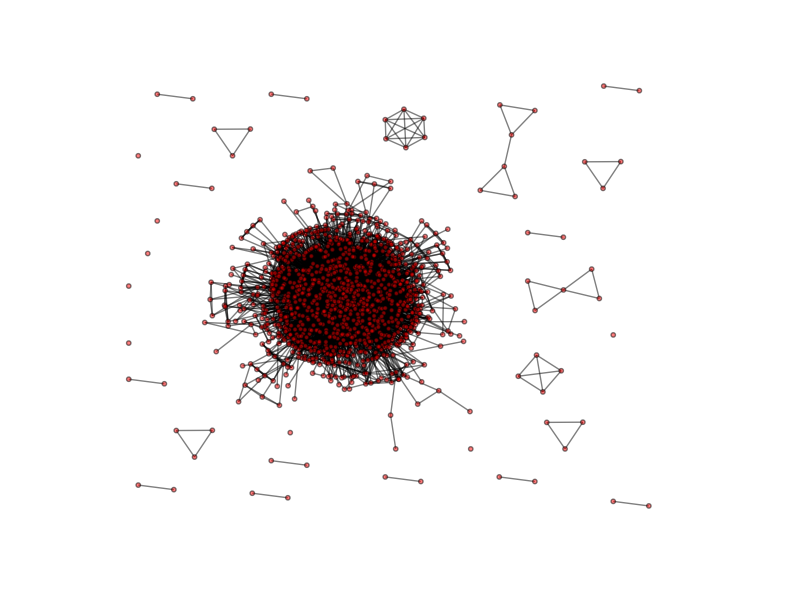
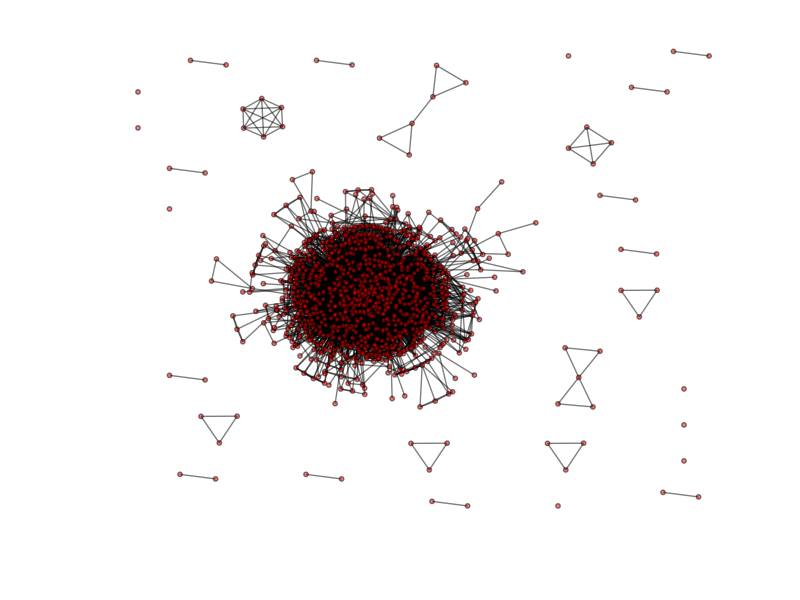
remove high throughput papers

diff --git a/get_references.py b/get_references.py
@@ -8,10 +8,9 @@ import os
 import sys
 
 # Graphic stuff
-import networkx as nx
 import matplotlib.pyplot as plt
 
-ez.email = "i.friedberg@miamioh.edu" 
+ez.email = "jomaao@miamioh.edu" 
 
 
 """
@@ -39,17 +38,26 @@ def pmids_from_gaf(gaf_file):
     pmid_go = {}
     unigoa_file = open(gaf_file)
     pmids = {}
+    go_terms = []
     for inrec in GOA.gafiterator(unigoa_file):
         for dbref in inrec['DB:Reference']:
             if dbref[:4] == 'PMID':
                 pmid = dbref[5:]
                 pmids[pmid] = None
+                go_terms.append(inrec['GO_ID'])
                 if pmid not in pmid_go:
-                    pmid_go[pmid] = [inrec['GO_ID'][3:]]
+                    pmid_go[pmid] = [inrec['GO_ID']]
                 else:
-                    pmid_go[pmid].append(inrec['GO_ID'][3:])
-    # I enforced the list cast here because the dict_key is not subscriptable
-    return list(pmids.keys()), pmid_go 
+                    pmid_go[pmid].append(inrec['GO_ID'])
+    # I enforced the list cast here because the dict_key is not subscriptableds))
+    return list(pmids.keys()), pmid_go, go_terms
+
+
+def remove_high_throughput_papers(pmid_go):
+    
+    for pmid in pmid_go.keys():
+        if (len(pmid_go[pmid]) >= 50):
+            del pmid_go[pmid]
 
 def pmid2doi(pmid_list):
     """
@@ -203,6 +211,7 @@ def create_pcp_network(pmid_pmid,pmid_go):
                             if not pcp.has_edge(term, ref_term):
                                 pcp.add_edge(term, ref_term, co_ocrnce=1)
                                 pmid_go[ref_pmid].remove(ref_term) # Keep the 1DCR
+                                
                                 remove_term = True
                             else:
                                 pcp[term][ref_term]['co_ocrnce'] += 1
@@ -227,16 +236,69 @@ def create_prot_prot_network(pmid_go):
                     prot_prot[pmid_go[pmid][i]][pmid_go[pmid][j]]['co_ocrnce'] += 1
     return prot_prot
 
+def get_stats(pmid_pmid, pmid_go, go_terms):
+    
+    #Number of go terms in dicty file
+    num_go_terms = len(go_terms)
+    
+    #Number of pmids in dicty file
+    num_pmids = len(pmid_pmid)
+    
+    #Avg number of go terms for each pmid
+    sum = 0
+    for pmid in pmid_go:
+        sum += len(pmid_go[pmid])
+    avg_go_terms = sum/len(pmid_pmid)
+    
+    #Avg number of references for each pmid
+    sum = 0
+    for pmid in pmid_pmid:
+        sum += len(pmid_pmid[pmid])
+    avg_pmid_ref = sum/len(pmid_pmid)
+    
+    #Avg number of references for each pmid that are in the dicty file
+    sum = 0
+    for pmid in pmid_pmid:
+        for ref in pmid_pmid[pmid]:
+            if ref in pmid_pmid.keys():
+                sum += 1
+    avg_pmid_dicty_ref = sum/len(pmid_pmid)
+    
+    #Avg number of occurences in a pmid in the dicty file for each go term
+    sum = 0
+    for term in go_terms:
+        for pmid in pmid_go:
+            if term in pmid_go[pmid]:
+                sum += 1
+    avg_terms_pmid = sum/len(go_terms) 
+    
+    print "Number of go terms in dicty file = " + str(num_go_terms)
+    print "Number of pmids in dicty file = " + str(num_pmids)
+    print "Avg number of go terms for each pmid = " + str(avg_go_terms)
+    print "Avg number of references for each pmid = " + str(avg_pmid_ref)
+    print "Avg number of references for each pmid that are in the dicty file = " + str(avg_pmid_dicty_ref)
+    print "Avg number of occurences for each go term in each pmid in dicty file = " + str(avg_terms_pmid)
+    
+    
+    
 if __name__ == "__main__":
     
-    pmids,pmid_go = pmids_from_gaf(sys.argv[1])
+    pmids,pmid_go, go_terms = pmids_from_gaf(sys.argv[1])
     #pmid_dois = pmid2doi(pmids)  
     #get_references(pmid_dois)
-    pmid_pmid = cPickle.load(open("pmid_pmid"))
+    
+    remove_high_throughput_papers(pmid_go)
+    
+    pmid_pmid = cPickle.load(open("/home/jomaao/GitHub/PCPAnnotationAssessment/pmid_pmid"))
+    
     prot_prot = create_prot_prot_network(pmid_go)
-    pos=nx.graphviz_layout(prot_prot,prog='neato',args='')
+    pos = nx.graphviz_layout(prot_prot, prog='neato', args='')
     nx.draw(prot_prot,pos,node_size=10,alpha=0.5,node_color="red", with_labels=False)
-    plt.savefig("prot_prot.png")
-    pcp = create_pcp_network(pmid_go,pmid_go)
+    plt.savefig("/home/jomaao/GitHub/PCPAnnotationAssessment/prot_prot.png")
     
+    pcp = create_pcp_network(pmid_pmid,pmid_go)
+    pos = nx.graphviz_layout(pcp, prog='neato', args='')
+    nx.draw(pcp,pos,node_size=10,alpha=0.5,node_color="red", with_labels=False)
+    plt.savefig("/home/jomaao/GitHub/PCPAnnotationAssessment/prot_citation_prot.png")
     
+    get_stats(pmid_pmid, pmid_go, go_terms)
